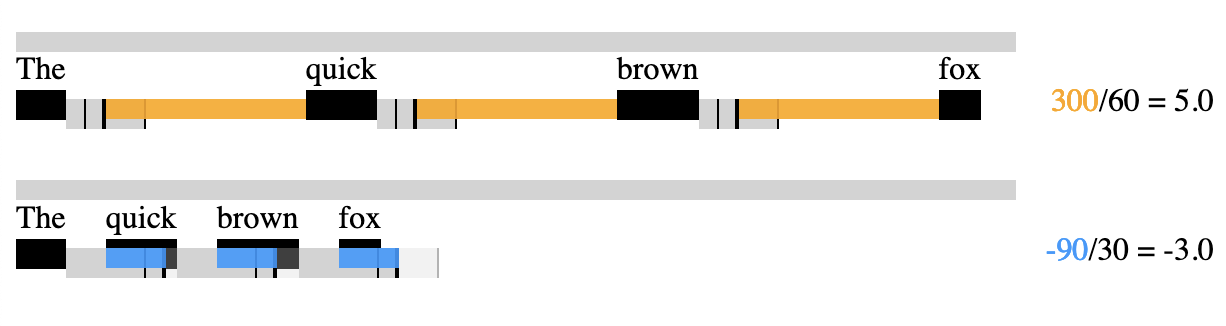
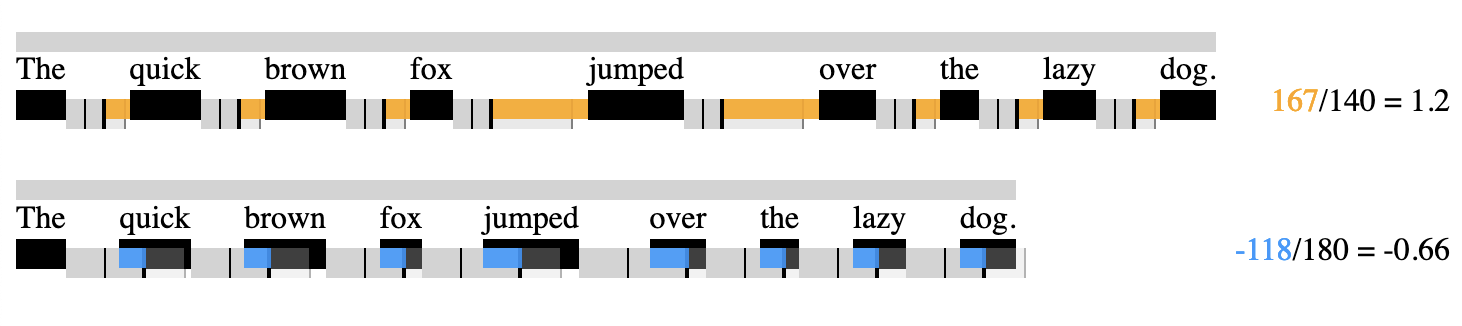
Distribute in the shrink case as well.

diff --git a/viz-new.js b/viz-new.js
@@ -78,23 +78,6 @@ function newGlue(toMin, toNat, toMax, stretch) {
   el('div', { class: 'spacer', style: width(advance) }, curr_line);
 }
 
-newWord('The');
-newGlue(10, 10, 20, 0);
-newWord('quick');
-newGlue(10, 10, 20, 0);
-newWord('brown');
-newGlue(10, 10, 20, 0);
-newWord('fox');
-
-curr_line = line2;
-newWord('The');
-newGlue(40, 10, 20, -30);
-newWord('quick');
-newGlue(40, 10, 20, -30);
-newWord('brown');
-newGlue(40, 10, 20, -30);
-newWord('fox');
-
 clwidth = e => e.getBoundingClientRect().width;
 Array.prototype.sum = function() {
   return this.reduce((acc, w) => acc + w,0);
@@ -107,30 +90,99 @@ function distribute(line) {
   const ideal_glue = Array.from(line.querySelectorAll('.min.glue, .nat.glue'))
     .map(clwidth).sum();
   const total_glue = total_space - total_words;
-  const excess_glue = total_glue - ideal_glue;
-  if (excess_glue >= 0.0) { // stretch
+  const total_stretch = total_glue - ideal_glue;
+  if (total_stretch >= 0.0) { // stretch
     const total_stretchability = Array.from(line.querySelectorAll('.max.glue'))
       .map(clwidth).sum();
     Array.from(line.querySelectorAll('.glue.item')).forEach(item => {
       const stretchability = clwidth(item.querySelector('.max.glue'));
       const proportion = stretchability / total_stretchability;
-      const actual_stretch = excess_glue * proportion;
+      const actual_stretch = total_stretch * proportion;
       // update stretch bar
-      item.querySelector('.stretch-shrink').style.width = actual_stretch+'px';
+      const bar = item.querySelector('.stretch-shrink');
+      bar.parentElement.classList.add('stretch');
+      bar.parentElement.classList.remove('shrink');
+      bar.style.width = actual_stretch+'px';
+      bar.style.right = null;
+      // update .spacer
       const nat_glue = clwidth(item.querySelector('.min.glue'))
                      + clwidth(item.querySelector('.nat.glue'));
       const actual_glue = nat_glue + actual_stretch;
-      // update .spacer
       item.parentElement.nextElementSibling.style.width = actual_glue+'px';
     });
     const stretch_amt = line.querySelector('.stretch-amt');
     const denom = line.querySelector('.denom');
     const quotient = line.querySelector('.quotient');
-    stretch_amt.textContent = Math.round(excess_glue);
+    stretch_amt.textContent = Math.round(total_stretch);
     denom.textContent = Math.round(total_stretchability);
-    const ratio = excess_glue / total_stretchability;
+    const ratio = total_stretch / total_stretchability;
     quotient.textContent = ratio.toPrecision(2);
   } else { // shrink
-    throw "Oops";
+    const total_shrink = -total_stretch;
+    const total_shrinkability = Array.from(line.querySelectorAll('.nat.glue'))
+      .map(clwidth).sum();
+    Array.from(line.querySelectorAll('.glue.item')).forEach(item => {
+      const shrinkability = clwidth(item.querySelector('.nat.glue'));
+      const proportion = shrinkability / total_shrinkability;
+      const actual_shrink = total_shrink * proportion;
+      // update shrink bar
+      const bar = item.querySelector('.stretch-shrink');
+      bar.parentElement.classList.add('shrink');
+      bar.parentElement.classList.remove('stretch');
+      bar.style.width = actual_shrink+'px';
+      bar.style.right = '0px';
+      // update .spacer
+      const nat_glue = clwidth(item.querySelector('.min.glue'))
+                     + clwidth(item.querySelector('.nat.glue'));
+      const actual_glue = nat_glue - actual_shrink;
+      item.parentElement.nextElementSibling.style.width = actual_glue+'px';
+    });
+    const shrink_amt = line.querySelector('.shrink-amt');
+    const denom = line.querySelector('.denom');
+    const quotient = line.querySelector('.quotient');
+    shrink_amt.textContent = Math.round(total_stretch);
+    denom.textContent = Math.round(total_shrinkability);
+    const ratio = total_stretch / total_shrinkability;
+    quotient.textContent = ratio.toPrecision(2);
   }
 }
+
+newWord('The');
+newGlue(10, 10, 10, 0);
+newWord('quick');
+newGlue(10, 10, 10, 0);
+newWord('brown');
+newGlue(10, 10, 10, 0);
+newWord('fox');
+newGlue(10, 10, 40, 0);
+newWord('jumped');
+newGlue(10, 10, 40, 0);
+newWord('over');
+newGlue(10, 10, 10, 0);
+newWord('the');
+newGlue(10, 10, 10, 0);
+newWord('lazy');
+newGlue(10, 10, 10, 0);
+newWord('dog.');
+
+curr_line = line2;
+newWord('The');
+newGlue(20, 20, 20, -10);
+newWord('quick');
+newGlue(20, 20, 20, -10);
+newWord('brown');
+newGlue(20, 20, 20, -10);
+newWord('fox');
+newGlue(20, 30, 20, -10);
+newWord('jumped');
+newGlue(25, 30, 20, -10);
+newWord('over');
+newGlue(20, 20, 20, -10);
+newWord('the');
+newGlue(20, 20, 20, -10);
+newWord('lazy');
+newGlue(20, 20, 20, -10);
+newWord('dog.');
+
+distribute(line1)
+distribute(line2)

diff --git a/viz-new.html b/viz-new.html
@@ -8,7 +8,6 @@
     .desired-line {
       background-color: lightgray;
       height: 10px;
-      width: 500px;
       margin-top: 30px;
     }
     .item {
@@ -44,13 +43,16 @@
       display: inline-block;
       background-color: lightgray;
       border-right: 1px solid black;
+      opacity: 50%;
     }
     .stretch-shrink {
       opacity: 90%;
       display: inline-block;
       height: 10px;
     }
-    .container > .stretch-shrink { position: absolute; bottom: 5px; }
+    .container > .stretch-shrink {
+      position: absolute; bottom: 5px; z-index: 10;
+    }
     .stretch > .stretch-shrink { background-color: orange; }
     .shrink > .stretch-shrink { background-color: #2599ff; }
     .shrink + .max { opacity: 30%; }
@@ -62,13 +64,13 @@
   <body>
     <div id="lines">
       <div class="line" id="line1">
-        <div class="desired-line"></div>
+        <div class="desired-line" style="width: 600px"></div>
         <span class="ratio">
           <span class="stretch-amt">300</span>/<span class="denom">60</span> = <span class="quotient">5.0</span>
         </span>
       </div>
       <div class="line" id="line2">
-        <div class="desired-line"></div>
+        <div class="desired-line" style="width: 500px"></div>
         <span class="ratio">
           <span class="shrink-amt">-90</span>/<span class="denom">30</span> = <span class="quotient">-3.0</span>
         </span>
